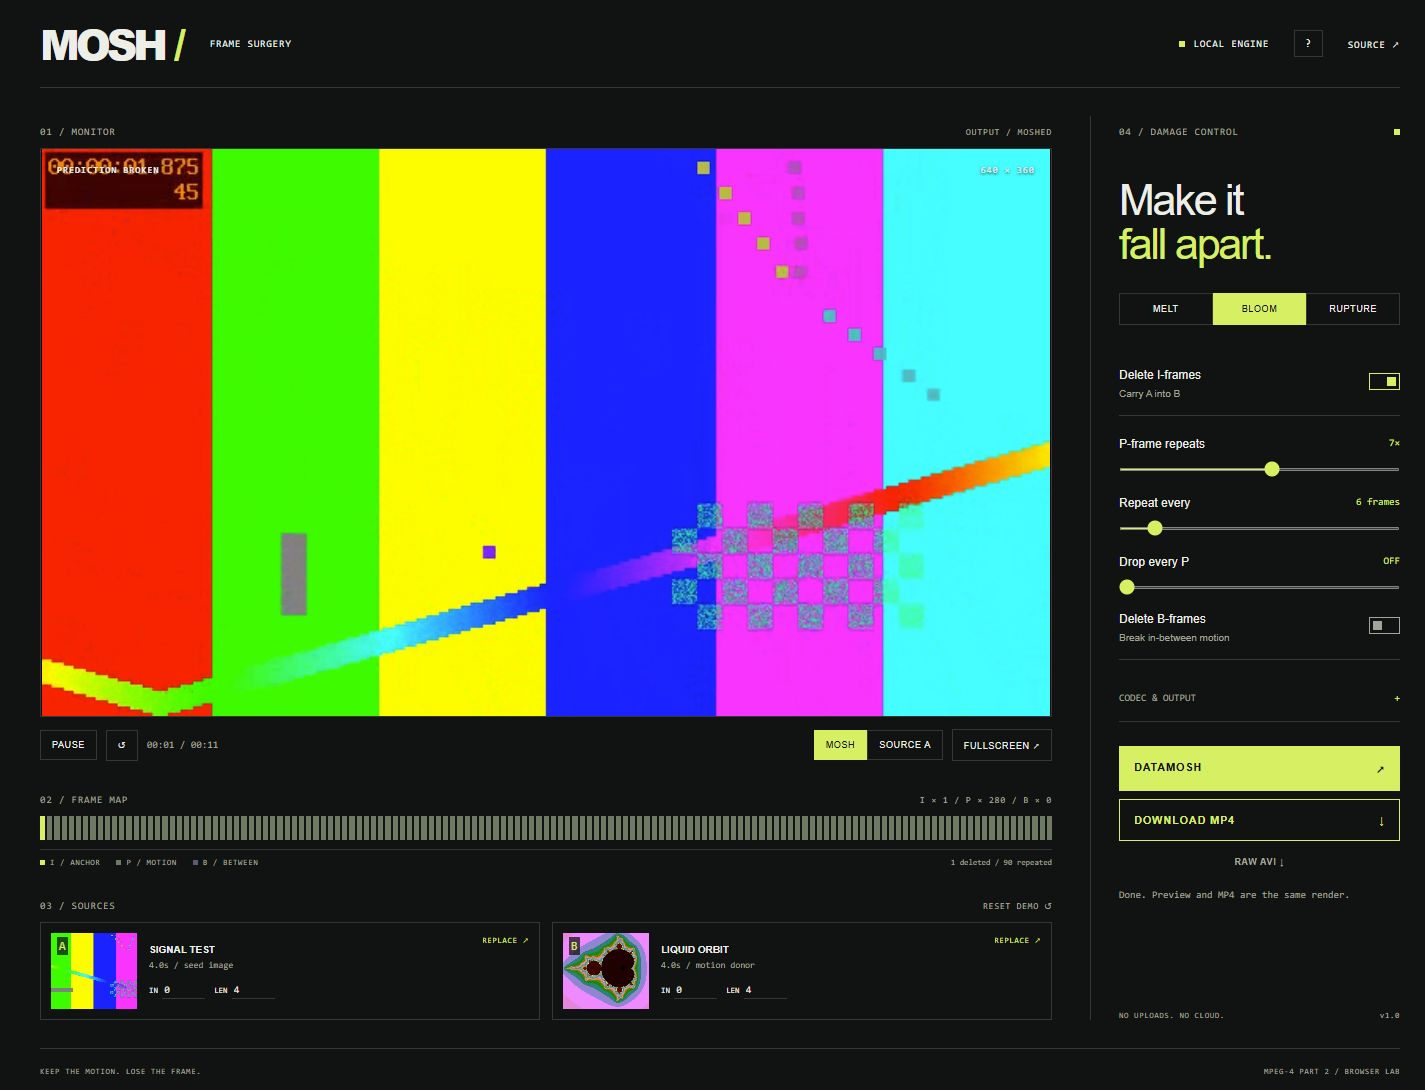
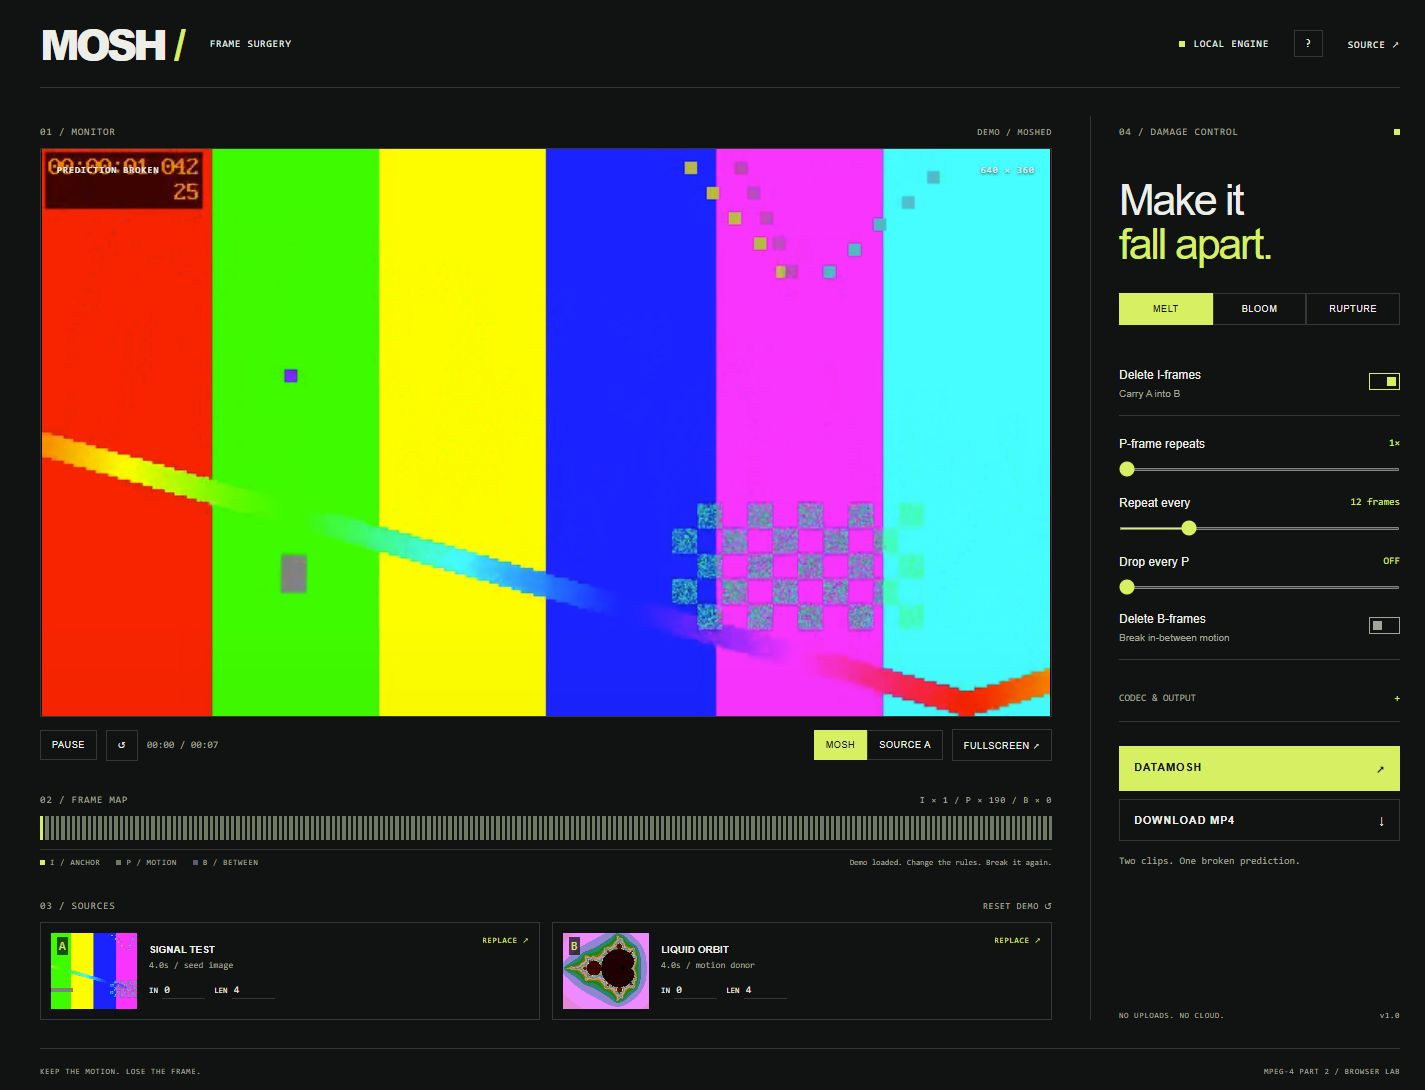
Record browser validation and corrected responsive screenshots

diff --git a/docs/VALIDATION.md b/docs/VALIDATION.md
@@ -1,0 +1,16 @@
+# Validation
+
+Checked on 11 October 2026 with Chromium in the Codex browser, served over localhost:
+
+- Both embedded source clips and the pre-rendered demo load and play.
+- Melt renders a playable MP4 with one retained I-frame and 190 P-frames.
+- Bloom renders a playable MP4 with 90 repeated prediction frames (281 encoded frames total).
+- Rupture, with two B-frames enabled, deletes 135 frames and repeats 8 prediction frames; the rebuilt AVI and decoded MP4 are downloadable.
+- MP4 and AVI downloads completed through the visible browser download controls.
+- Replacing source A with a local MP4 updates its filename and duration.
+- Cancel terminates an active codec render while preserving prior output.
+- At a 390px viewport, the document is 375px wide with no horizontal overflow. Desktop and mobile screenshots are included.
+- Node codec checks pass for VOP classification, I-frame deletion, P-frame repetition, AVI reconstruction, and invalid-input rejection.
+- JavaScript syntax checks pass.
+
+The in-app browser blocks `file://` navigation, so opening by double-click was not directly browser-tested. All media, worker scripts, core JavaScript, and WebAssembly bytes are embedded; no external runtime resources are fetched. `tests/browser.py` is provided for an environment that permits local-file browser tests. An attempted Playwright launch on this Windows host failed with `spawn UNKNOWN`; that script was not claimed as passing.
